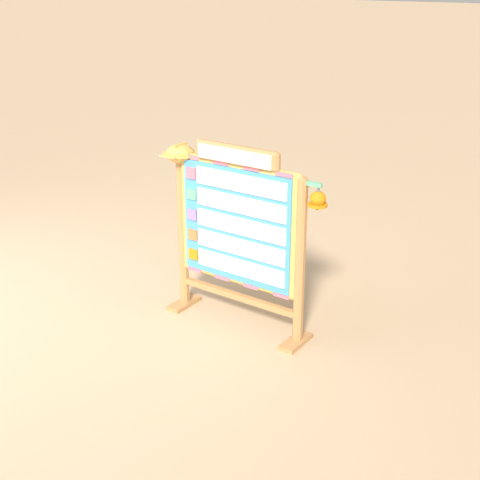
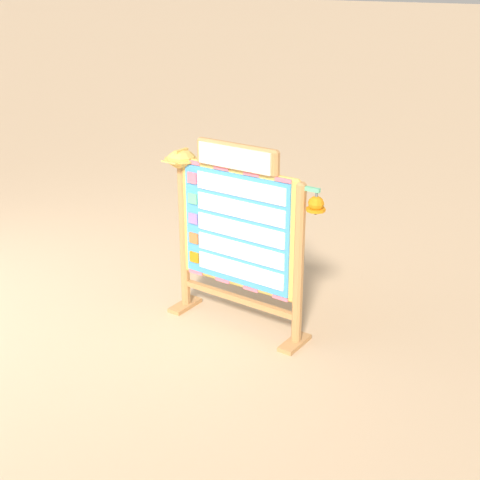
Taller title faces on the Tools board and the Build board
Each Screen part is 0.56 studs tall (it was 0.36), so a title reads at 18 px or more on a phone. The header and
the title plank grew upward; names, width, front and Attachments are unchanged. The boards stand 5.2 high.

Closes #461

Claude-Session: https://claude.ai/code/session_01DW2up3E6M21fYJtCcCtEdr

Changed region(s): [[0.3438, 0.2812, 0.6875, 0.6875], [0.625, 0.6875, 0.6562, 0.7188]]

diff --git a/assets/clean-a-cat/blender/boards.py b/assets/clean-a-cat/blender/boards.py
@@ -2,7 +2,7 @@
 
 Until now both stood in the spa as plain slabs made in code (`PH_ToolsBoard`, brown, and `PH_BuildBoard`, blue, each
 4 x 5 x 0.4 studs). These keep the slab's footprint, so they stand where the slabs stand: 4 studs wide between the
-posts, 5 high, the pivot on the floor at the middle, the front at -Z in Roblox (-Y here). No writing is baked in; the
+posts, 5.2 high (#461: the title faces grew from 0.36 to 0.56 so a title reads on a phone), the pivot on the floor at the middle, the front at -Z in Roblox (-Y here). No writing is baked in; the
 words come from the UI. Like every `Prop_` they are walk-through unless the game sets CanCollide.
 
   CleanACat_Prop_ToolsBoard   a cream peg board in a mint frame on two wooden posts with a bubblegum header and three
@@ -65,6 +65,9 @@ def _stand(b, top):
         b.box_base((sx * POST_X, 0.0, 0.0), (0.42, 1.1, 0.12), "wood_light", bevel=False)
 
 
+SCREEN_H = 0.56     # a title face's height: at 0.36 the title was about 14 px on a phone, and the UI rule is 18 or more
+
+
 def _screen(name, mat, z, w, h, y):
     s = Builder()
     s.box_base((0, y, z), (w, 0.06, h), "offwhite", bevel=False)
@@ -83,7 +86,7 @@ def build_tools_board(mat):
         b.box((0, -0.05 - SHELF_D / 2, z - 0.05), (W - 0.9, SHELF_D, 0.1), "wood_light")   # its back sunk in the board
         for sx in (1, -1):                              # a mint bracket under each end
             b.box((sx * 1.2, -0.2, z - 0.2), (0.1, 0.3, 0.22), "spa_mint", bevel=False)
-    b.box_base((0, 0.02, 4.45), (2.6, 0.26, 0.55), "spa_bubblegum")                        # the header
+    b.box_base((0, 0.02, 4.45), (2.6, 0.26, 0.72), "spa_bubblegum")                        # the header
     main = _tris(b.finalize(TOOLS, mat))
 
     y = -0.05 - SHELF_D / 2                             # the middle of a shelf, front to back
@@ -118,7 +121,7 @@ def build_tools_board(mat):
     for i, sw in enumerate(("spa_sky", "spa_cream", "spa_bubblegum")):
         s.box_base((0.0 + 0.03 * (i - 1), y, z + 0.16 * i - 0.005 * i), (0.95 - 0.06 * i, 0.4, 0.17), sw)
     decor = _tris(s.finalize(TOOLS + "_Decor", mat))
-    return [main, soap, brush, decor, _screen(TOOLS, mat, 4.55, 2.3, 0.36, -0.13)]
+    return [main, soap, brush, decor, _screen(TOOLS, mat, 4.53, 2.3, SCREEN_H, -0.13)]
 
 
 def tools_board_rbx_extras():
@@ -141,7 +144,7 @@ def build_build_board(mat):
     for i, z in enumerate(CARD_Z):
         b.box((0.17, FACE_Y - 0.015, z), (2.74, 0.05, CARD_H), "spa_cream", bevel=False)   # a row card
         b.box((-1.4, FACE_Y - 0.02, z), (0.3, 0.06, 0.3), CHIPS[i], bevel=False)           # its colour chip
-    b.box_base((0, 0.02, 4.5), (2.5, 0.22, 0.5), "wood_light")                             # the title plank
+    b.box_base((0, 0.02, 4.5), (2.5, 0.22, 0.7), "wood_light")                             # the title plank
     hx, hz = -POST_X, 4.5                              # a hard hat hung on the left post
     b.sphere((hx, POST_Y, hz), HAT, "pastel_butter", segments=10, rings=5, scale=(1, 1, 0.62))
     b.cyl_base((hx, POST_Y - 0.03, hz - 0.03), HAT + 0.06, 0.05, "pastel_butter", segments=10, bevel=False)
@@ -158,7 +161,7 @@ def build_build_board(mat):
     s.cyl_base((0, 0, -0.1 - BELL_R * 1.75), BELL_R + 0.04, 0.07, "fur_golden", segments=10, bevel=False)   # the lip
     s.sphere((0, 0, -0.1 - BELL_R * 1.9), 0.07, "fur_brown", segments=6, rings=4)          # the clapper
     bell = _tris(s.finalize(BUILD + "_Bell", mat, location=BELL_AT))
-    return [main, bell, _screen(BUILD, mat, 4.57, 2.2, 0.36, -0.12)]
+    return [main, bell, _screen(BUILD, mat, 4.57, 2.2, SCREEN_H, -0.12)]
 
 
 def build_board_rbx_extras():

diff --git a/docs/art/style-guide.md b/docs/art/style-guide.md
@@ -158,8 +158,8 @@ Its pivot is slot 1's plot pivot, so it goes at `SpaLayout.PIVOT_POSITION`. Atta
 - `CleanACat_Prop_ChanceBoard`: a standing bubblegum board on two wooden legs; its face part is `Screen` (front, -Z) for the chances SurfaceGui. Tagged `ChanceBoard`, streams in whole. It stands at the plot's `SpotBoard`.
 - `CleanACat_Prop_QueueMat`: a welcome mat with two paw prints, one at each `SpotQueue`.
 - `CleanACat_Prop_FoamPuff`, `CleanACat_Prop_FoamPuff2`, `CleanACat_Prop_FoamPuff3` (#431): the suds on the cat in the Bubble Bath step, in place of six plain white balls made in code. Three shapes of one thing so six puffs do not look alike (a round heap, a wide low drift, a tall dollop): white foam lobes and one clear soap bubble with a glint (child Model `..._Bubbles`, see-through, taps pass). Built against a wall, not on the floor: the pivot is the middle of the back and the puff bulges to the front (-Z), about half as deep as wide, 1.1 studs wide at scale 1, its lobes dipping a little into the fur. On a walking cat at 1.5: `ScaleTo(0.36 x reach)` and the pivot 0.8 of the way from his middle to his box's face gives about the box the balls gave. 460 triangles and 8 parts each. Walk-through; turn CanQuery off on a clone so scrub rays reach the fur.
-- `CleanACat_Prop_ToolsBoard` (#424): the Tools board, in place of the brown slab made in code. A cream peg board in a mint frame on two wooden posts, a bubblegum header and three wooden shelves on mint brackets. It keeps the slab's footprint: 4 studs wide between the posts' outer faces, 5 high, pivot on the floor at the middle, front at -Z. What is on sale sits on the shelves as child Models so code can hide one that is switched off or bought: `..._Display_BubbleSoap` (a bubblegum soap bottle with a mint pump, and a butter sponge under foam, the look of the bubble sponge the tool gives) and `..._Display_ProBrush` (the fluffy brush stood on its head with its tufts out, beside a pile of brushed out fluff). `..._Decor` is a stack of folded towels on the third shelf until a third tool takes it. The header's cream face is the part `Screen` for a title. Attachments `Row1` to `Row3` sit at the front of each shelf, top to bottom, for the prompts; root attribute `Rows` counts them. No writing on the model. Streams in whole.
-- `CleanACat_Prop_BuildBoard` (#424): the builder board, in place of the blue slab. A builder's plan board in the builder kitten's colours: a sky sheet in a butter frame with dashed bubblegum tape along the top and bottom rails (as on the build pad), five cream row cards with a colour chip each (the last one gold for the big build), a wooden title plank whose cream face is `Screen`, a butter hard hat hung on the left post and a gold bell on a mint arm off the right post. The bell is the child Model `..._Bell`, pivoted where it hangs so it can be swung. Attachments `Row1` to `Row5` at the front of each card, top to bottom, and `Bell` in front of the bell for the "tell me when it's done" prompt; root attribute `Rows`. Same footprint as the Tools board (the bell arm reaches 0.5 past the right post). Streams in whole.
+- `CleanACat_Prop_ToolsBoard` (#424): the Tools board, in place of the brown slab made in code. A cream peg board in a mint frame on two wooden posts, a bubblegum header and three wooden shelves on mint brackets. It keeps the slab's footprint: 4 studs wide between the posts' outer faces, 5.2 high, pivot on the floor at the middle, front at -Z. What is on sale sits on the shelves as child Models so code can hide one that is switched off or bought: `..._Display_BubbleSoap` (a bubblegum soap bottle with a mint pump, and a butter sponge under foam, the look of the bubble sponge the tool gives) and `..._Display_ProBrush` (the fluffy brush stood on its head with its tufts out, beside a pile of brushed out fluff). `..._Decor` is a stack of folded towels on the third shelf until a third tool takes it. The header's cream face is the part `Screen` for a title. Attachments `Row1` to `Row3` sit at the front of each shelf, top to bottom, for the prompts; root attribute `Rows` counts them. No writing on the model. Streams in whole. Since #461 the `Screen` is 2.3 wide and 0.56 tall (it was 0.36, where a title read at about 14 px on a phone).
+- `CleanACat_Prop_BuildBoard` (#424): the builder board, in place of the blue slab. A builder's plan board in the builder kitten's colours: a sky sheet in a butter frame with dashed bubblegum tape along the top and bottom rails (as on the build pad), five cream row cards with a colour chip each (the last one gold for the big build), a wooden title plank whose cream face is `Screen`, a butter hard hat hung on the left post and a gold bell on a mint arm off the right post. The bell is the child Model `..._Bell`, pivoted where it hangs so it can be swung. Attachments `Row1` to `Row5` at the front of each card, top to bottom, and `Bell` in front of the bell for the "tell me when it's done" prompt; root attribute `Rows`. Same footprint as the Tools board (the bell arm reaches 0.5 past the right post). Streams in whole. Since #461 its `Screen` is 2.2 wide and 0.56 tall, and the board is 5.2 high.
 - `CleanACat_Prop_PetCrate` (#438, a draft): the reward crate a pet comes out of. Nothing in the game uses it until crates have rules. Wooden slats in a lilac frame, a lilac lid with two cat ears and a gold paw latch, a bubblegum cushion inside; lilac and gold because that is what a better tool wears, so it reads as a prize. It must never be taken for the customers' carrier, the cardboard boxes or a plain present. 2.4 studs wide, 2.0 deep, 1.55 to the rim; pivot on the floor at the middle, front -Z. The lid is the child Model `CleanACat_Prop_PetCrate_Lid_Swing` with its pivot on the hinge line: turn it by the root attribute `LidOpenDegrees` (110) about the pivot's X to open it. The cream plate on the front is the part `Screen` for a name or a question mark. Attachments: `PetSeat` on the cushion (a sitting cat at the attribute `CatScale`, 1.25, has its whole head over the rim), `Burst` over the open top for the opening's effects and `Odds` above the lid for the list of chances, which is always shown before a crate is opened. Streams in whole. Built by `crates.py`.
 - `CleanACat_Prop_BowButtonPink`, `CleanACat_Prop_BowButtonMint`, `CleanACat_Prop_BowButtonSky` (#441): the buttons the player taps to pick a bow after the brush, in place of plain coloured slabs made in code. A round cream face in a rim of the bow's colour with a big copy of that bow on it, standing up with its face to the front (-Z), so the player sees what the cat will wear. 1.1 studs across and 0.36 deep, so three stack at the tight wash scene's 1.15 stud spacing; pivot at the middle, where a slab's middle was. The rim disc is the biggest part and the tap target. The root attribute `BowId` is the game's id for the bow (`BowPink`, `BowMint`, `BowSky`). Each floats beside the tub, so its pivot and centred warnings are accepted. Built by `props.py`.
 - `CleanACat_Prop_PhotoCamera` (#344): the photo step's tap target beside the tub, in place of the placeholder block. A small cream camera with a bubblegum top band, a big sky lens in a mint ring with a glint, a sky viewfinder, a butter flash and a gold shutter button, on a three legged wooden tripod with mint feet and a mint head. 1.5 wide, 1.5 deep and 3.1 tall, so the body is at about a player's chest. No brand and no writing. Pivot at the base centre, the lens at the model's front (-Z). Attachment `Tap` at the middle of the camera body (2.45 up) for a prompt or a highlight. 656 triangles.

diff --git a/assets/clean-a-cat/exports/gates.md b/assets/clean-a-cat/exports/gates.md
@@ -85,7 +85,7 @@ Generated by `build_all.py` (no build time, so parallel model PRs don't conflict
 | CleanACat_Prop_BowButtonMint | PASS | 412 / 450 | 1.08 x 0.36 x 1.08 |  | pivot, centered |
 | CleanACat_Prop_BowButtonPink | PASS | 412 / 450 | 1.08 x 0.36 x 1.08 |  | pivot, centered |
 | CleanACat_Prop_BowButtonSky | PASS | 412 / 450 | 1.08 x 0.36 x 1.08 |  | pivot, centered |
-| CleanACat_Prop_BuildBoard | PASS | 796 / 900 | 4.85 x 1.1 x 5.0 |  | centered |
+| CleanACat_Prop_BuildBoard | PASS | 796 / 900 | 4.85 x 1.1 x 5.2 |  | centered |
 | CleanACat_Prop_BuildPad | PASS | 536 / 600 | 4.8 x 4.8 x 2.1 |  |  |
 | CleanACat_Prop_Burr | PASS | 148 / 250 | 0.4 x 0.4 x 0.4 |  |  |
 | CleanACat_Prop_Carrier | PASS | 900 / 950 | 1.44 x 2.08 x 2.03 |  |  |
@@ -116,7 +116,7 @@ Generated by `build_all.py` (no build time, so parallel model PRs don't conflict
 | CleanACat_Prop_SudsBed | PASS | 640 / 800 | 2.14 x 2.45 x 0.63 |  | centered |
 | CleanACat_Prop_TipJar | PASS | 104 / 400 | 0.98 x 0.99 x 1.52 |  |  |
 | CleanACat_Prop_Toolbox | PASS | 140 / 140 | 1.3 x 0.69 x 0.92 |  |  |
-| CleanACat_Prop_ToolsBoard | PASS | 1792 / 1800 | 4.18 x 1.1 x 5.0 |  |  |
+| CleanACat_Prop_ToolsBoard | PASS | 1792 / 1800 | 4.18 x 1.1 x 5.17 |  |  |
 | CleanACat_Prop_Twig | PASS | 172 / 400 | 0.67 x 0.9 x 0.08 |  | centered |
 | CleanACat_Prop_WindowSign | PASS | 92 / 300 | 6.4 x 0.39 x 2.8 |  | pivot, centered |
 | CleanACat_Station_BrushTable | PASS | 672 / 1200 | 3.4 x 2.41 x 4.25 |  | centered |

diff --git a/docs/concepts/clean-a-cat/README.md b/docs/concepts/clean-a-cat/README.md
@@ -75,3 +75,4 @@ HUD source page: `assets/clean-a-cat/ui/hud.html`. Plans: issues #5 (first sessi
 - `2026-11-25-bow-buttons.png`: the check sheet for the bow pick buttons (#441), the bow itself on a round button in place of plain coloured slabs: each from the front, a three quarter view, the side and the back; the slabs and the buttons at the wash scene's spacing beside a cat; each at 128 and 64 px. 2026-11-25.
 - `2026-11-25-carrier-rework.png`: the check sheet for the reworked cat carrier (#449): the old carrier with grey bars beside the new little house with no bars, the three looks (bow and hearts, cat ears and stars, a paw badge) from the front, a three quarter view and behind, the gate open, beside a player sized stand-in and the old carrier, and each at 128, 64 and 40 px.
 - `2026-11-25-customers-rework.png`: the check sheet for the reworked customers (#446): the old bare figures beside the new townsfolk, all eight with a carrier in the right hand, a test step from the side and the front, two of them from four sides, three builds beside a player sized stand-in, and each at 200 and 100 px with its triangle and part counts.
+- `2026-11-25-board-titles.png`: the Tools board and the Build board before and after their title faces grew from 0.36 to 0.56 studs tall (#461), beside a player sized stand-in.
